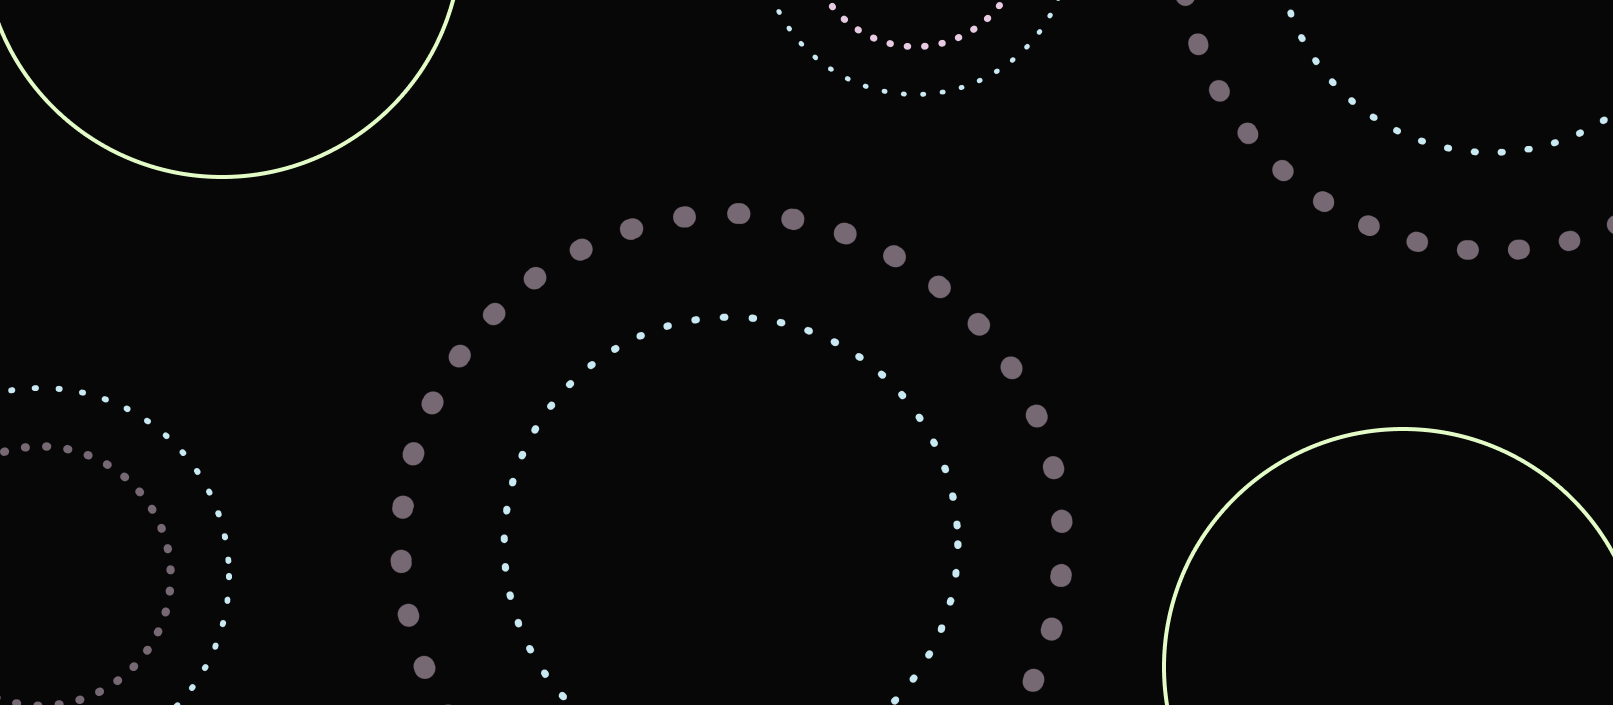
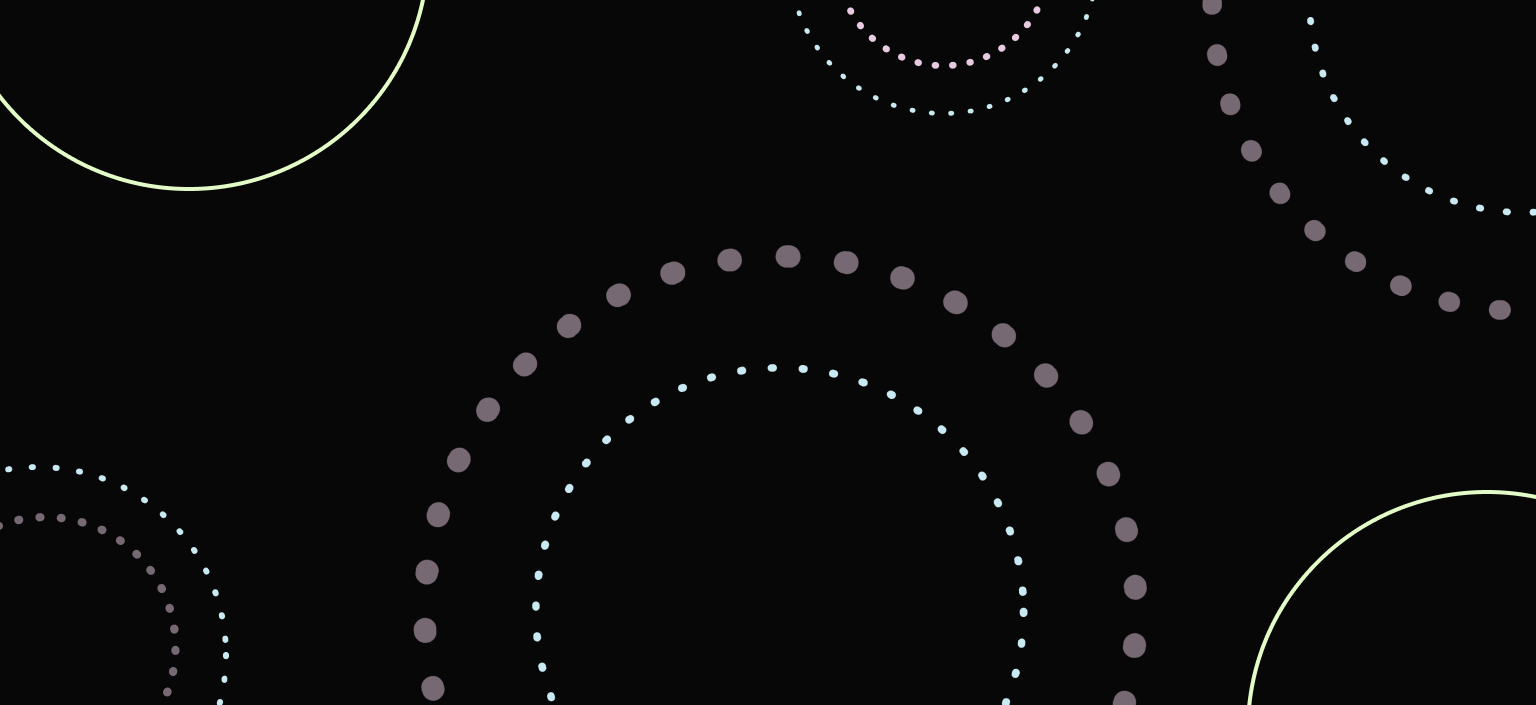
button fait, capsule bien placé, add circles

diff --git a/css/styles.css b/css/styles.css
@@ -138,7 +138,7 @@ main {
   text-align: left;
   color: white;
   position: absolute;
-  left: 180px;
+  left: 200px;
   top: 200px;
 }
 
@@ -172,8 +172,9 @@ main {
   font-family: "Sunflower-Medium";
   font-size: 20px;
   outline: none;
-  padding-bottom: 10px;
-  padding-right: 15px;
+  height: 45px;
+  width: 220px;
+  text-align: center;
   position: relative;
   text-decoration: none;
 }
@@ -181,10 +182,17 @@ main {
 /*-----capsule-----*/
 .accueil .big-capsule {
   position: absolute;
-  right: 250px;
+  right: 200px;
 }
 
 .accueil .big-capsule img {
   width: 250px;
   height: auto;
+}
+
+.accueil .big-capsule .circle-1 {
+  height: 250px;
+  width: 250px;
+  border-radius: 100px;
+  background-color: red;
 }

diff --git a/index.html b/index.html
@@ -80,15 +80,16 @@
             surprendront vos <br />
             convives !
           </h3>
-          <a href="">
-            <button class="btn-accueil" type="button">
-              Decouvrir la collection
-            </button>
-          </a>
+
+          <button type="button">
+            Decouvrir la collection
+          </button>
         </div>
         <div class="big-capsule">
           <img src="/assets/img/cap-macaron-choco.png" alt="" />
         </div>
+        <div class="circle-1"></div>
+        <div class="circle-2"></div>
       </section>
     </main>
   </body>
